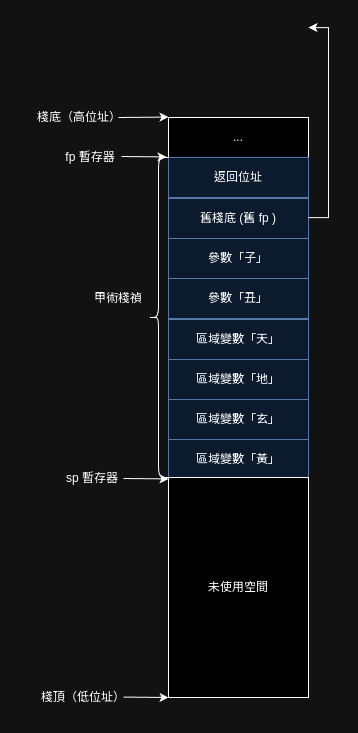
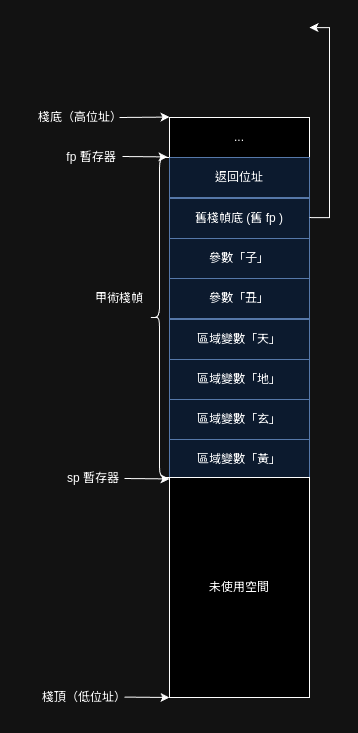
實作：術的編譯

diff --git a/book/零．二版/精五真言生成（三）實作：術的編譯.md b/book/零．二版/精五真言生成（三）實作：術的編譯.md
@@ -1,0 +1,254 @@
+本章將結合實際程式碼來一觀術是如何被編譯的。
+
+## 計算棧的大小
+
+究竟要分配多大的棧空間給一個術呢？
+
+```音界
+術．甲（子、丑）【
+    元．天＝１
+    元．地＝１
+    元．玄＝１
+    元．黃＝１
+】
+```
+
+再回顧這張圖：
+
+![加入參數的精五棧圖解](../image/參數精五棧圖解.png)
+
+兩個參數＋四個區域變數＋舊棧禎底＋返回位址，總共要 8 個字長，在 64 位元系統中，就是 8 * 64 = 256 位元，也就是 64 位元組。
+
+### 考慮區塊
+
+參數數量、舊棧禎底、返回位址需要的空間都是雷打不動，但若法咒中帶有區塊，區域變數的情況會稍微複雜一些：
+
+```音界
+術．甲（）【
+    若（...）【
+        元．天＝１
+        元．地＝１
+    】或若（...）【
+        元．玄＝１
+    】不然【
+        元．黃＝１
+    】
+】
+```
+
+「若」語句可以有多分支，但僅有其中一支會執行，因此不需要為每一個分支中的區域變數都分配空間，分的空間夠用量最大的分支使用就好。在上例中，第一條分支有兩個區域變數，其餘分支都僅一個區域變數，那分配兩個整數的空間就足以應付了。
+
+```音界
+術．甲（）【
+    若（...）【
+        元．天＝１
+        元．地＝１
+    】
+
+    // 做其他事
+
+    若（...）【
+        元．玄＝１
+    】
+
+    // 做其他事
+    
+    若（...）【
+        元．黃＝１
+    】
+】
+```
+即使是獨立的幾個「若」語句也一樣，不同區塊內的區域變數的作用域不相同，不可能同時被使用，這個例子仍然只需要分配兩個整數的空間。
+
+### 實作：計算需分配多少空間給區域變數
+```rust
+fn 區塊區域變數數量(區塊: &Vec<Ｏ句>) -> usize {
+    let mut 頂層計數 = 0;
+    let mut 塊內計數 = 0;
+
+    for 句 in 區塊 {
+        match 句 {
+            Ｏ句::變數宣告(_) => {
+                頂層計數 += 1;
+            }
+            Ｏ句::若(若) => 塊內計數 = max(塊內計數, 若區域變數數量(若)),
+            _ => {}
+        }
+    }
+
+    頂層計數 + 塊內計數
+}
+
+fn 若區域變數數量(若: &Ｏ若) -> usize {
+    let mut 計數 = 區塊區域變數數量(&若.區塊);
+    for 或若 in &若.或若列表 {
+        計數 = max(計數, 區塊區域變數數量(&或若.區塊))
+    }
+
+    match &若.不然 {
+        Some(Ｏ不然 { 區塊 }) => 計數 = max(計數, 區塊區域變數數量(&區塊)),
+        None => {}
+    }
+    計數
+}
+
+pub fn 術內區域變數數量(術: &Ｏ術宣告) -> usize {
+    區塊區域變數數量(&術.術體)
+}
+```
+
+## 術開頭
+
+計算棧的大小後，增長棧(修改`sp`)，推入返回地址與舊棧幀底`fp`後。
+
+```rust
+writeln!(真言檔, "{}:", 術.術名)?;
+
+let 區域變數數量 = 術內區域變數數量(&術);
+
+let 棧初始大小 = (術.形參.len() + 區域變數數量 + 2) * 字長;
+// 增長棧
+writeln!(真言檔, "\taddi sp, sp, -{}", 棧初始大小)?;
+// 儲存返回地址
+writeln!(真言檔, "\tsd ra, {}(sp)", 棧初始大小 - 字長)?;
+// 儲存舊棧底（fp）
+writeln!(真言檔, "\tsd s0, {}(sp)", 棧初始大小 - 字長 * 2)?;
+// 更新 s0 為現在的棧底（s0 就是 fp）
+writeln!(真言檔, "\taddi s0, sp, {}", 棧初始大小)
+```
+
+## 索引變數位址
+
+當需要擷取變數，必須先知曉變數究竟是在棧中（參數或區域變數）還是在數據段（全域變數），才能夠生成正確的讀寫指令。
+
+貧道在實作中以`Ｏ變數位址`來分辨變數所在何處：
+
+```rust
+#[derive(Clone, Copy, Display)]
+enum Ｏ棧中類型 {
+    區域變數,
+    實參,
+}
+use Ｏ棧中類型::*;
+
+#[derive(Clone, Copy)]
+enum Ｏ變數位址 {
+    全域,
+
+    棧中(usize, Ｏ棧中類型),
+}
+
+impl Ｏ變數位址 {
+    // 從記憶體載入暫存器中
+    fn 載入(&self, 真言檔: &mut File, 暫存器名: &str, 變數名: &str) -> io::Result<()> {
+        match self {
+            Ｏ變數位址::全域 => {
+                writeln!(真言檔, "# 載入全域變數「{}」", 變數名)?;
+                writeln!(真言檔, "\tld {}, {}", 暫存器名, 變數名)
+            }
+            Ｏ變數位址::棧中(偏移, 棧中類型) => {
+                writeln!(真言檔, "# 載入{}「{}」", 棧中類型, 變數名)?;
+                writeln!(真言檔, "\tld {}, -{}(s0)", 暫存器名, 偏移)
+            }
+        }
+    }
+
+    // 從暫存器寫到記憶體
+    fn 寫出(&self, 真言檔: &mut File, 暫存器名: &str, 變數名: &str) -> io::Result<()> {
+        match self {
+            Ｏ變數位址::全域 => {
+                panic!("目前語法不會使全域變數的值被更改");
+            }
+            Ｏ變數位址::棧中(偏移, 棧中類型) => {
+                writeln!(真言檔, "# 寫出{}「{}」", 棧中類型, 變數名)?;
+                writeln!(真言檔, "\tsd {}, -{}(s0)", 暫存器名, 偏移)
+            }
+        }
+    }
+}
+```
+參數與區域變數都在棧中，其擷取方式一致。
+
+### 記錄變數的棧中位址
+
+以符號表來記錄各個變數的所在位置，注意到變數表是一個可持久化 Trie 樹雜湊表，那是因為在區塊中的區域變數可以覆蓋外部變數，但離開區塊之後，區塊內的變數又不再作用，故直接在進入區塊時生成變數表的不可變副本，是最容易的實作方式。
+
+```rust
+// 目前不支援術中術
+// 符號檢查有通過的話，術一定都存在的，不需要記錄
+#[derive(Clone)]
+struct Ｏ符號表 {
+    變數表: rpds::HashTrieMap<String, Ｏ變數位址>,
+    計數: usize, // 當下術內有幾個實參跟區域變數
+}
+
+impl Ｏ符號表 {
+    fn new() -> Self {
+        Self {
+            變數表: HashTrieMap::new(),
+            計數: 1,
+        }
+    }
+    fn 錄入全域變數(&mut self, 變數名: &String) {
+        self.變數表.insert_mut(變數名.clone(), Ｏ變數位址::全域);
+    }
+    fn 錄入棧中變數(&mut self, 變數名: &String, 棧中類型: Ｏ棧中類型) {
+        self.變數表.insert_mut(
+            變數名.clone(),
+            Ｏ變數位址::棧中(字長 * (self.計數 + 2), 棧中類型),
+        );
+        self.計數 += 1;
+    }
+    fn 取得變數位址(&self, 變數名: &String) -> Ｏ變數位址 {
+        match self.變數表.get(變數名) {
+            Some(變數位址) => *變數位址,
+            None => {
+                panic!(
+                    "編譯器內部錯誤：未在符號檢查階段檢查到未宣告變數「{}」",
+                    變數名
+                )
+            }
+        }
+    }
+}
+```
+
+有了符號表，要記錄變數位址就很容易了，在頂層宣告遇到變數宣告，就將變數錄入全域，在術中遇到，就將變數錄入棧中。
+
+至於參數要在術的開頭就記錄參數位址，並從參數暫存器寫入棧中。
+```rust
+// 將術的參數加入符號表
+// 並將參數從 a0~a7 寫入棧中
+for (編號, 參名) in 術.形參.iter().enumerate() {
+    符號表.錄入棧中變數(參名, 實參);
+    符號表
+        .取得變數位址(參名)
+        .寫出(真言檔, &format!("a{}", 編號), 參名)?;
+}
+```
+
+## 計算
+
+計算與零．一版保持一致，依然採用堆疊機，不管完成任何計算，棧會增加一個整數大小的空間，存放計算結果。如若用不到計算結果了，得記得將其彈出棧，以維護棧的大小。
+
+```rust
+// 計算結束時，棧頂 = t0 = 計算結果
+fn 計算(
+    真言檔: &mut File, 算式: &Ｏ算式, 符號表: &Ｏ符號表
+) -> io::Result<()> {
+    match 算式 {
+        Ｏ算式::二元運算(二元運算) => {
+            Self::計算(真言檔, 二元運算.左.as_ref(), 符號表)?;
+            Self::計算(真言檔, 二元運算.右.as_ref(), 符號表)?;
+            Self::二元運算(真言檔, &二元運算.運算子)
+        }
+        Ｏ算式::數字(數) => Self::數字入棧(真言檔, 數),
+        Ｏ算式::變數(變數) => Self::變數入棧(真言檔, 變數, 符號表),
+        Ｏ算式::施術(施術) => Self::施術(真言檔, 施術, 符號表),
+    }
+}
+```
+
+相比零．一版，此處增加了一種算式——`施術`，依然可用堆疊機來完成，先分別計算各個實參，將實參的值壓入棧中，等實參都計算完畢後，將實參值載入參數暫存器後，施術（call）。
+
+### 計算施術

diff --git a/book/零．二版/精五真言生成（一）棧與區域變數.md b/book/零．二版/精五真言生成（一）棧與區域變數.md
@@ -6,7 +6,7 @@
 
 ## 區域變數
 
-咒執行的過程中，一個術可能被施展多次，最簡單的例子就是遞迴術，術中有術，層層嵌套。由於執行次數可能取決於法咒的輸入，編譯器無法知曉究竟一個術在法咒執行過程中究竟會執行幾次，因此不可能在編譯期就將樹中區域變數的記憶體分配完。
+咒執行的過程中，一個術可能被施展多次，最簡單的例子就是遞迴術，術中有術，層層嵌套。由於執行次數可能取決於法咒的輸入，編譯器無法知曉一個術在法咒執行過程中究竟會執行幾次，因此不可能在編譯期就將術中區域變數的記憶體分配完。
 
 那只好在執行期動態分配記憶體了，分配到哪裡呢？[老樣子](../零．一版/精五真言生成.md)，放到棧上，畢竟術的施展天然就像棧這種資料結構。
 
